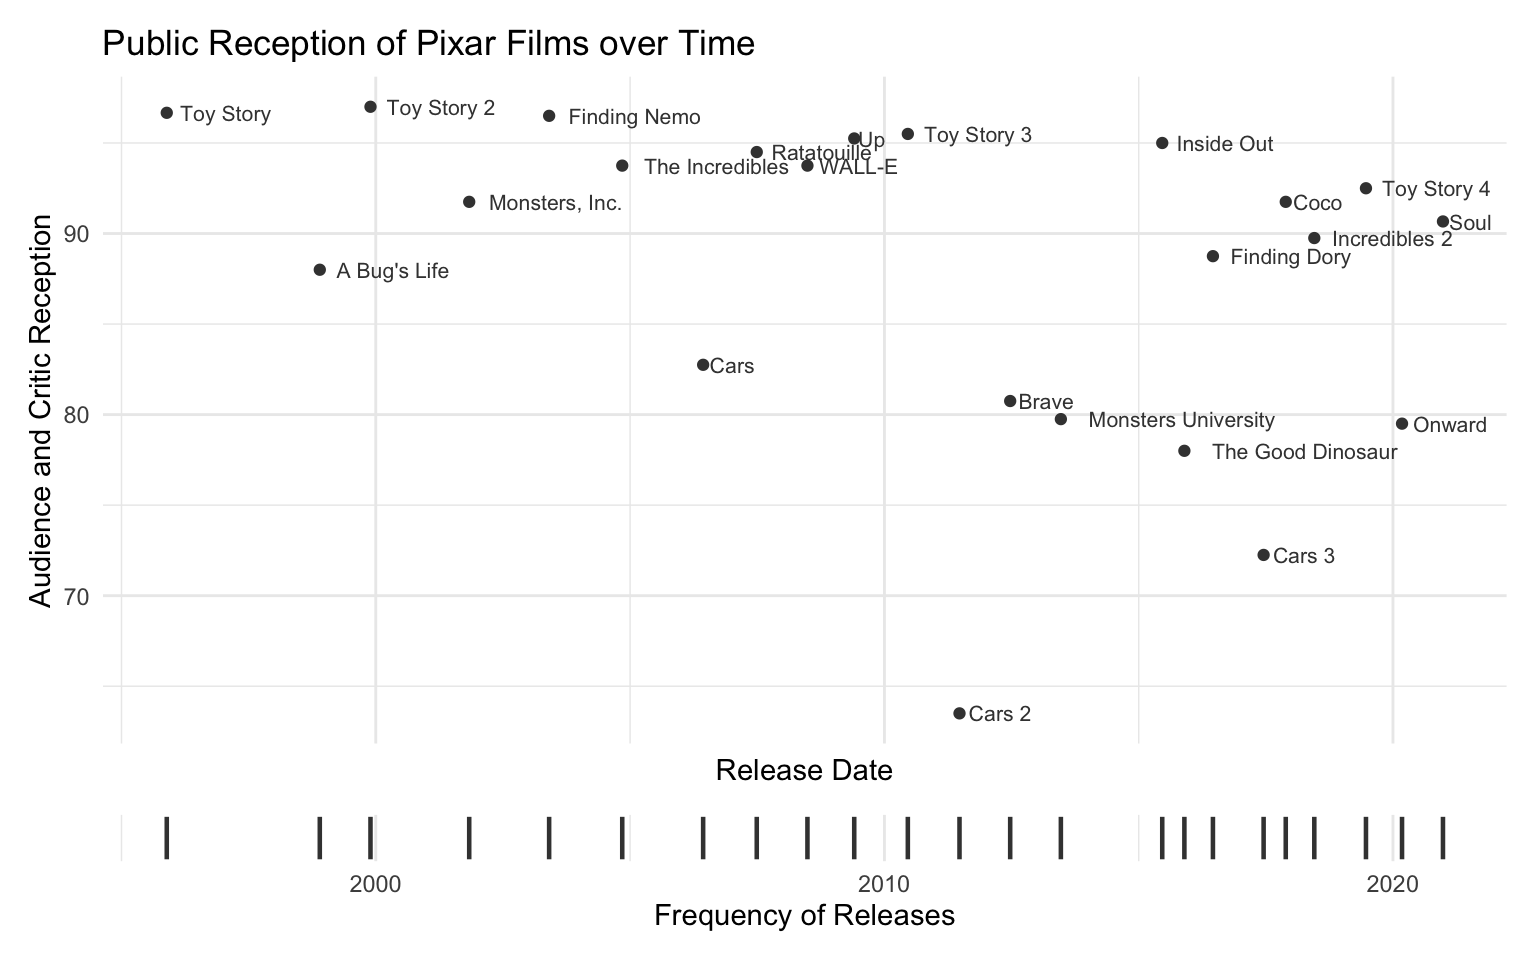
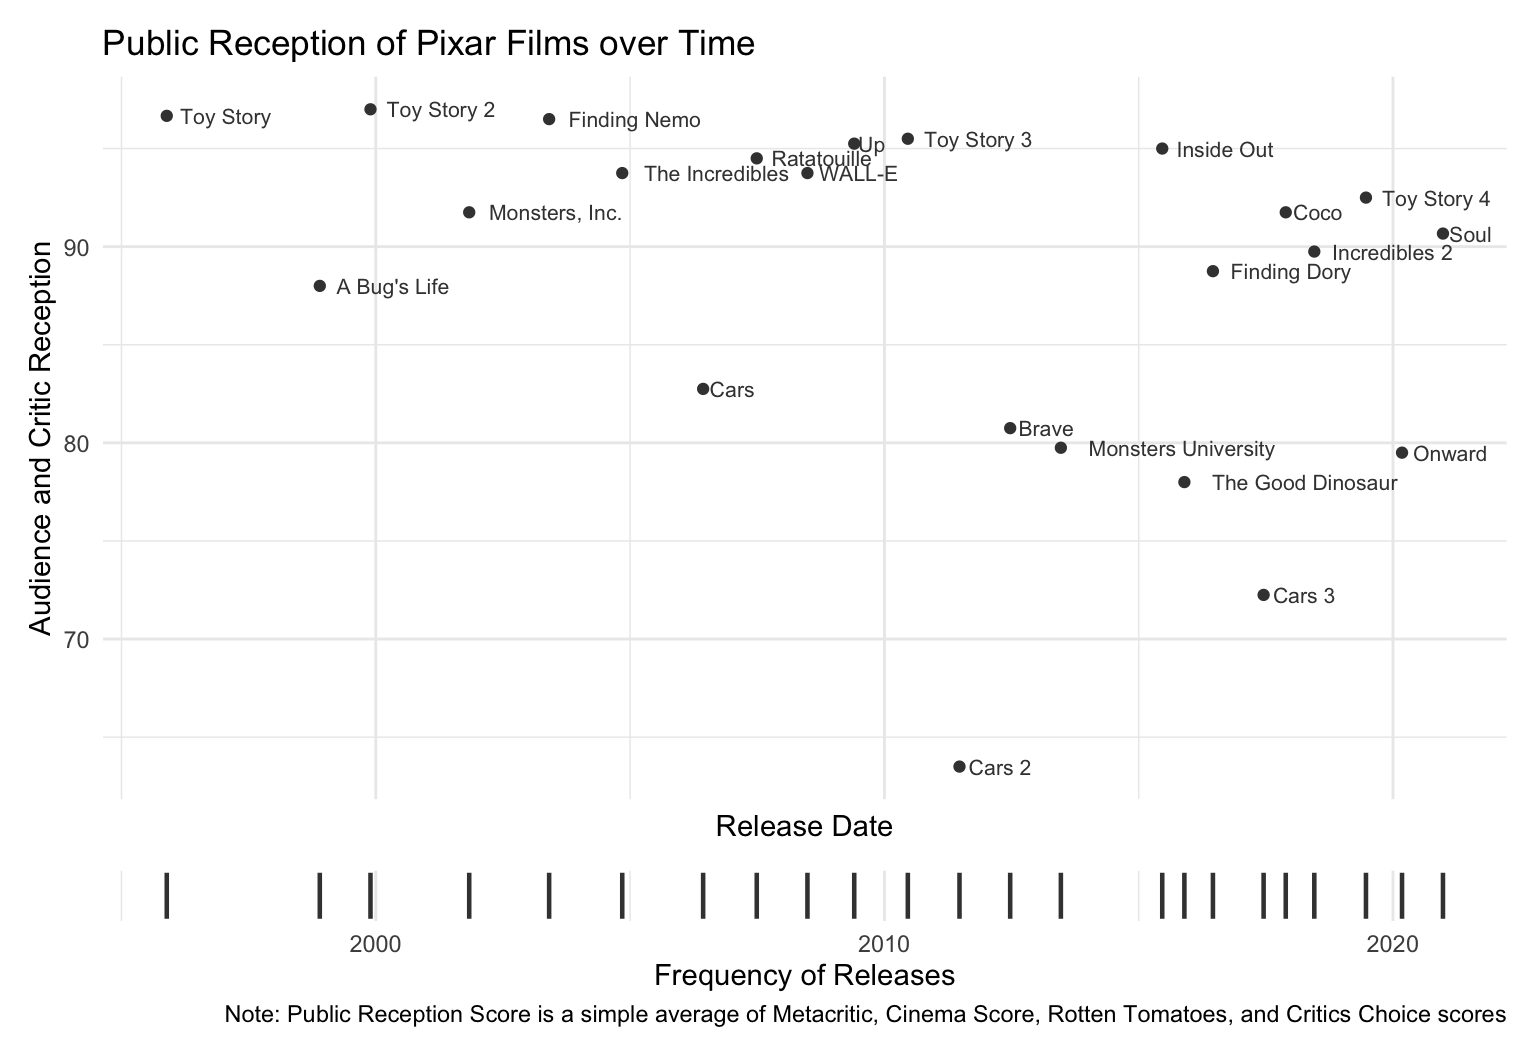
Added caption

diff --git a/2025-03-11/tidy_tuesday_2025-03-11.html b/2025-03-11/tidy_tuesday_2025-03-11.html
@@ -156,7 +156,7 @@ Levels: A A+ A-</code></pre>
 <span id="cb6-8"><a href="#cb6-8" aria-hidden="true" tabindex="-1"></a></span>
 <span id="cb6-9"><a href="#cb6-9" aria-hidden="true" tabindex="-1"></a>release_plot <span class="ot">&lt;-</span> <span class="fu">ggplot</span>(pixar_films_combined, <span class="fu">aes</span>(<span class="at">x =</span> release_date)) <span class="sc">+</span></span>
 <span id="cb6-10"><a href="#cb6-10" aria-hidden="true" tabindex="-1"></a>  <span class="fu">geom_segment</span>(<span class="fu">aes</span>(<span class="at">xend =</span> release_date, <span class="at">y =</span> <span class="dv">0</span>, <span class="at">yend =</span> <span class="dv">1</span>), <span class="at">linewidth =</span> <span class="fl">0.8</span>, <span class="at">color =</span> <span class="st">"gray25"</span>) <span class="sc">+</span></span>
-<span id="cb6-11"><a href="#cb6-11" aria-hidden="true" tabindex="-1"></a>  <span class="fu">labs</span>(<span class="at">x =</span> <span class="st">"Frequency of Releases"</span>, <span class="at">y =</span> <span class="cn">NULL</span>) <span class="sc">+</span></span>
+<span id="cb6-11"><a href="#cb6-11" aria-hidden="true" tabindex="-1"></a>  <span class="fu">labs</span>(<span class="at">x =</span> <span class="st">"Frequency of Releases"</span>, <span class="at">y =</span> <span class="cn">NULL</span>, <span class="at">caption =</span> <span class="st">"Note: Public Reception Score is a simple average of Metacritic, Cinema Score, Rotten Tomatoes, and Critics Choice scores"</span>) <span class="sc">+</span></span>
 <span id="cb6-12"><a href="#cb6-12" aria-hidden="true" tabindex="-1"></a>  <span class="fu">theme_minimal</span>() <span class="sc">+</span></span>
 <span id="cb6-13"><a href="#cb6-13" aria-hidden="true" tabindex="-1"></a>  <span class="fu">theme</span>(<span class="at">axis.text.y =</span> <span class="fu">element_blank</span>(), </span>
 <span id="cb6-14"><a href="#cb6-14" aria-hidden="true" tabindex="-1"></a>        <span class="at">axis.ticks.y =</span> <span class="fu">element_blank</span>(), </span>
